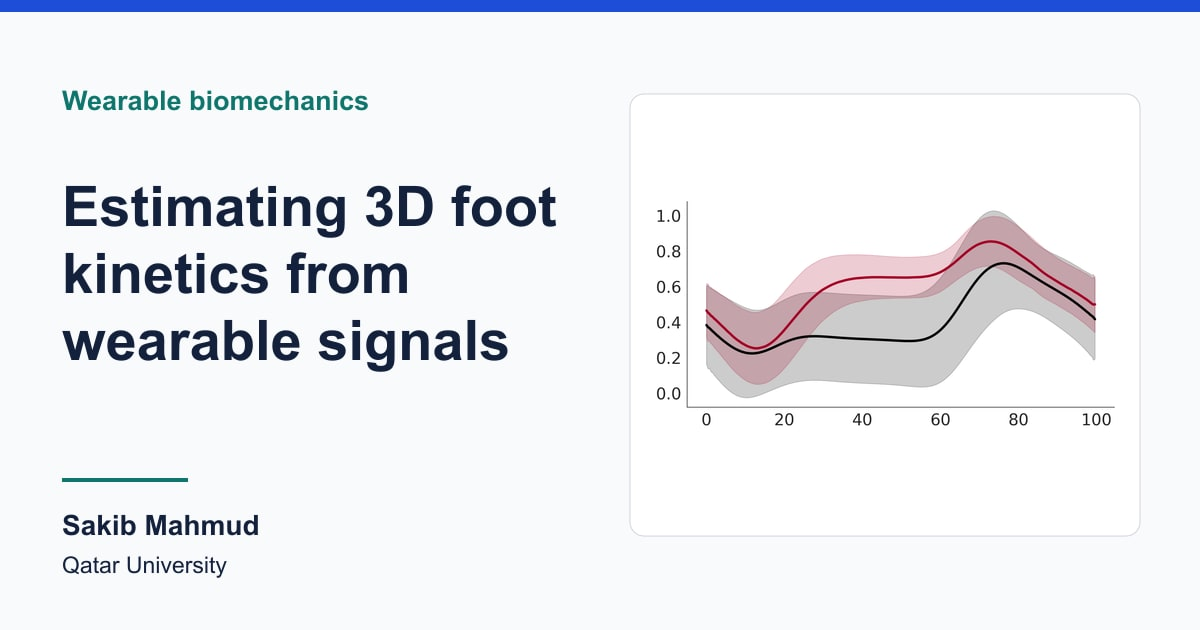
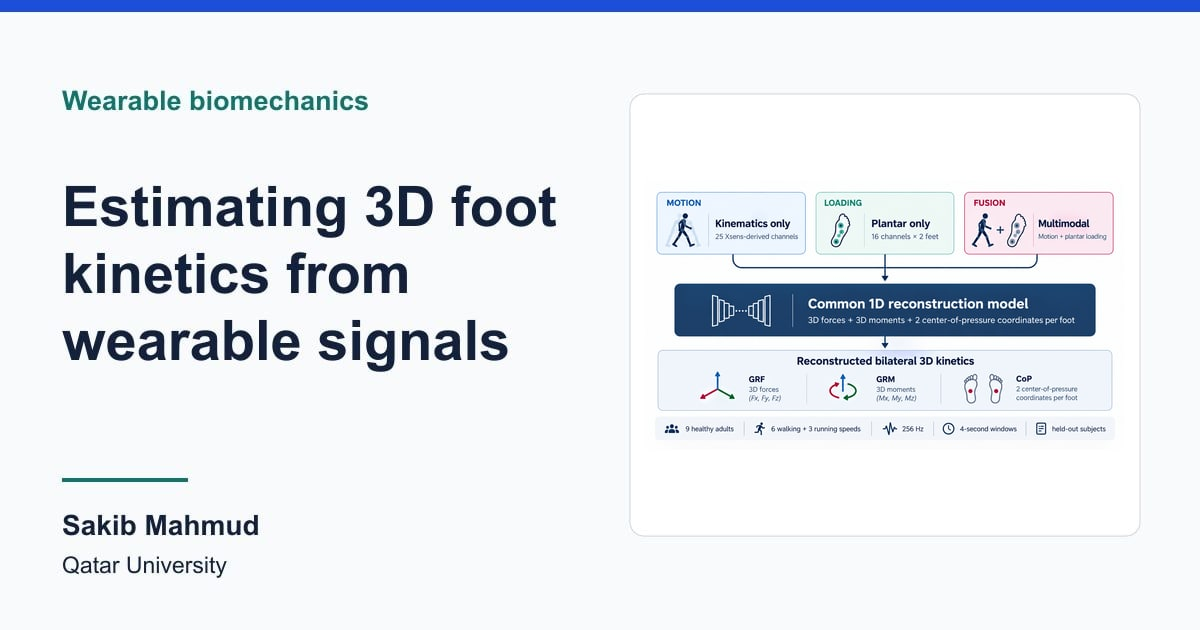
Rebuild the 3D foot kinetics page around the running project
Follow the project's progress in order: the published Ke2Ke insole
study, harmonisation of two public gait datasets, the kinematics-only
Km2Kn study, the matched pressure/motion/fusion benchmark, KineNeXt++
reliability-aware fusion, and cross-device transfer, with next steps
for the wearable system. Each stage has its status, results and
credited figures.

- Replace the display figure, homepage card and share card with the
  project overview graphic
- Use the published Ke2Ke figures with the IEEE notice and credit
  unpublished project figures to their source
- Add progress sections to research pages, allow credits without links
  for unpublished material, and serve sharper figures on dense screens
- Point the project overview and grant-phase pages to the new sections
- Remove the old plot and update the flagship test

Changed region(s): [[0.5242, 0.3016, 0.925, 0.6937]]

diff --git a/src/data/research.ts b/src/data/research.ts
@@ -1,5 +1,13 @@
 import type { ImageMetadata } from 'astro';
-import waveform from '../assets/insole-treadmill-waveform.png';
+import kineticsFramework from '../assets/research/wearable-foot-kinetics/project-framework.png';
+import kineticsExplainer from '../assets/research/wearable-foot-kinetics/kinematics-and-kinetics.png';
+import ke2keGaitCycle from '../assets/research/wearable-foot-kinetics/ke2ke-fig5-gait-cycle.png';
+import ke2keSensorLayout from '../assets/research/wearable-foot-kinetics/ke2ke-fig4-sensor-layout.png';
+import km2knReconstruction from '../assets/research/wearable-foot-kinetics/km2kn-reconstruction.png';
+import dasetComparison from '../assets/research/wearable-foot-kinetics/daset-unimodal-multimodal.png';
+import kinenextReconstruction from '../assets/research/wearable-foot-kinetics/kinenext-reconstruction.png';
+import anatomical8Regions from '../assets/research/wearable-foot-kinetics/anatomical8-regions.png';
+import transferResults from '../assets/research/wearable-foot-kinetics/transfer-twente-to-lee.png';
 import renal from '../assets/renal-ct.png';
 import sers from '../assets/sers-graphical-abstract.jpg';
 import ramanComparison from '../assets/raman-before-after.jpg';
@@ -14,7 +22,7 @@ import nabnetPipeline from '../assets/research/nabnet/fig1-pipeline.png';
 import nabnetAgreement from '../assets/research/nabnet/fig5-map-agreement.png';
 import ahnGrades from '../assets/research/prenatal-hydronephrosis/fig3-sfu-grades.jpg';
 import ahnSegmentation from '../assets/research/prenatal-hydronephrosis/fig6-segmentation.jpg';
-import { ccBy, elsevier, sourceArticle } from './figure-credits';
+import { ccBy, elsevier, ieee, sourceArticle } from './figure-credits';
 import { kinetics } from './kinetics';
 import { ramanSource } from './raman';
 import { thesisUrl } from './papers';
@@ -24,13 +32,29 @@ type ResearchLink = { label: string; href: string };
 /** Reuse terms shown beside a figure, such as CC BY 4.0 or a publisher copyright line. */
 export type FigureLicence = { label: string; href?: string };
 
-/** A figure from a paper or repository. The caption names the figure, its authors and any changes made. */
+/** Where a figure comes from. Unpublished project material has a label but no link. */
+export type FigureCredit = { label: string; href?: string };
+
+/** A figure from a paper, repository or project material. The caption names the figure, its authors and any changes made. */
 export type ResearchFigure = {
   image: ImageMetadata;
   alt: string;
   caption: string;
-  credit: ResearchLink;
+  credit: FigureCredit;
   licence?: FigureLicence;
+};
+
+/** One stage of a running project, shown as its own section in project order. */
+export type ResearchPhase = {
+  id: string;
+  /** Short label for the "On this page" list. */
+  navLabel: string;
+  title: string;
+  /** Publication or development status, such as "Published · …" or "Manuscript under revision". */
+  status: string;
+  paragraphs: string[];
+  measures?: { value: string; label: string }[];
+  figures?: ResearchFigure[];
 };
 
 export type ResearchProject = {
@@ -62,14 +86,15 @@ export type ResearchProject = {
     image: ImageMetadata;
     alt: string;
     caption: string;
-    credit?: ResearchLink;
+    credit?: FigureCredit;
     licence?: FigureLicence;
     /** A crop for the wide homepage card when the full figure is too detailed at that size. */
     card?: { image: ImageMetadata; alt: string };
-    chart?: { title: string; horizontalAxis: string; verticalAxis: string };
   };
   /** Further figures, placed in the Approach or Reported results section. */
   figures?: (ResearchFigure & { section: 'approach' | 'results' })[];
+  /** Stages of a running project, rendered after the approach in this order. */
+  progress?: ResearchPhase[];
 };
 
 export type Project = ResearchProject & { doi: string; code: string };
@@ -79,36 +104,175 @@ export const projects: Project[] = [
     slug: kinetics.slug,
     area: 'Wearable biomechanics',
     title: 'Estimating 3D foot kinetics from wearable signals',
-    summary: 'Estimating forces, moments, and centre of pressure from the vertical loads measured by smart insoles.',
-    question: 'How much of the force and moment profile measured by an instrumented treadmill can be recovered from insole signals?',
+    summary: 'Reconstructing 3D forces, moments, and centre of pressure from smart-insole loading and wearable motion sensors.',
+    question: 'How much of the 3D force, moment, and centre-of-pressure profile measured by an instrumented treadmill can smart insoles and wearable motion sensors recover?',
     doi: '10.1109/jbhi.2025.3605296',
     code: kinetics.repository,
-    approach: 'Ke2KeNet uses time series from 16 insole pressure sensors per foot. The study trained separate models for three force components, three moment components, and two centre-of-pressure coordinates, then compared the estimates with treadmill recordings across walking and running speeds.',
-    result: 'For the average gait cycles in Table I, the reported Pearson correlation exceeded 0.95 for all target signals except the right-foot vertical moment.',
-    measures: [
-      { value: '9', label: 'Healthy participants in cross-validation' },
-      { value: '5', label: 'Subject-independent folds' },
-      { value: '8', label: 'Estimated signals per foot' },
-    ],
-    contribution: 'I led preprocessing, model development, subject- and speed-wise evaluation, analysis, and manuscript preparation.',
+    status: 'Ongoing research',
+    context: 'Qatar University Collaborative Grant with Aspetar, building on the published Ke2Ke study',
+    period: '2023–present',
+    approach: 'Instrumented treadmills measure the full set of foot–ground kinetics but are fixed and expensive, while smart insoles are portable but mainly record vertical loading. The project trains one-dimensional sequence-reconstruction models that estimate, for each foot, three ground reaction forces, three moments, and the anterior–posterior and mediolateral centre of pressure, which gives 16 waveforms for both feet. The inputs are insole pressure, wearable motion, or both. Every model is evaluated against instrumented-treadmill references with the test participants held out of training. The sections below follow the project in order, from the published insole study to the current fusion and transfer experiments.',
+    contribution: 'I lead the project’s modelling work, from the published Ke2Ke study to the current fusion and transfer experiments. This covers preprocessing and harmonising the public datasets, developing Ke2KeNet, Km2KnNet and KineNeXt++, designing the participant-held-out evaluations, and preparing the manuscripts. The wider team is developing the sensing hardware and application.',
     evidence: {
       label: 'Wearable foot kinetics',
-      role: 'I led model development and evaluation against an instrumented treadmill.',
+      role: 'I lead the modelling work, from the published insole study to multimodal fusion and cross-device transfer.',
       finding: 'In nine healthy participants, average-cycle correlations exceeded 0.95 for all targets except the right-foot vertical moment.',
       shareImage: insoleShare,
     },
-    scope: 'The results come from nine healthy participants under controlled treadmill conditions. The plot illustrates one participant’s walking trials and shows where the estimated moment departs from the reference.',
-    ongoing: 'I’m investigating how to combine plantar sensing with inertial measurements from the foot and shank, and how well models transfer across datasets.',
-    workflow: ['Smart-insole pressure signals', 'Estimated forces and moments', 'Comparison with treadmill measurements'],
+    scope: 'Results so far come from public recordings of healthy adults on instrumented treadmills, with test participants held out. The studies report different metrics: Km2Kn and Ke2Ke correlate gait-cycle waveforms, while the conference study scores four-second windows. Numbers are therefore comparable within a study rather than across studies. The integrated wearable prototype has not yet been validated.',
+    ongoing: 'Controlled comparisons will test KineNeXt++ and a transformer-based variant, KineFusionFormer, against the U-Net baseline, including how well each copes when sensor streams or channels drop out. The team has drafted two wearable layouts that pair an instrumented insole with a foot and a shank IMU on each leg, and has fabricated a first pressure-sensing element. Its calibration, repeatability and readout electronics come next, followed by an application for synchronised recording, reconstruction and display. After the required ethics approvals, the integrated system will be validated against an instrumented treadmill in at least 30 healthy adults with Aspetar.',
+    workflow: ['Insole pressure and wearable motion', 'Reconstruct 16 kinetic waveforms', 'Compare with instrumented-treadmill references'],
     related: ['10.1007/s00521-023-09081-z', '10.3390/s22197599'],
     relatedProjects: ['multimodal-wearable-kinetics', 'kinematics-to-3d-kinetics'],
     visual: {
-      image: waveform,
-      alt: 'The estimated moment is above the treadmill mean for most of the right-foot walking cycle, with the largest separation around the middle of the cycle.',
-      caption: 'Participant 10, right foot, walking at 0.9–5.4 km/h. The black line is the treadmill mean and the red line is the Ke2KeNet estimate. Shading shows one standard deviation on either side of each mean. This example comes from the archived analysis for Figure 5b and shows a visible mid-cycle discrepancy.',
-      chart: { title: 'Mediolateral ground reaction moment', horizontalAxis: 'Gait cycle (%)', verticalAxis: 'Normalized amplitude (unitless)' },
-      credit: { label: 'Archived analysis notebook', href: 'https://github.com/Sakib1263/Unimodal-3D-Kinetics-Estimation-from-Insole-or-IMU/blob/2ffdb67e685e50068f79dfad37a7e26693e6a5ea/Combined_Insole_to_GRFM.ipynb' },
+      image: kineticsFramework,
+      alt: 'Overview diagram. Kinematics-only input from 25 Xsens-derived channels, plantar-only input from 16 insole channels per foot, and multimodal input combining both feed a common 1D reconstruction model. The model outputs bilateral 3D ground reaction forces, 3D moments and two centre-of-pressure coordinates per foot. A footer lists nine healthy adults, six walking and three running speeds, 256 Hz signals, four-second windows and held-out subjects.',
+      caption: 'Project overview from Mahmud and Bensaali’s talk at the 4th CENG Research Forum (October 2026). Wearable motion, insole loading or both are reconstructed into bilateral 3D forces, moments and centre-of-pressure trajectories.',
+      credit: { label: 'CENG Research Forum, October 2026' },
     },
+    figures: [
+      {
+        section: 'approach',
+        image: kineticsExplainer,
+        alt: 'Two-part explainer. Left, kinematics: a walking sequence with hip, knee and ankle angles over stance and swing, and an example knee flexion curve over the gait cycle. Right, plantar kinetics: a foot with vertical, anterior–posterior and medial–lateral force axes, the three moments, and a centre-of-pressure path from heel to forefoot, with an example vertical force curve over the gait cycle.',
+        caption: 'What the models estimate. Kinematics describe how the body moves. Plantar kinetics are the forces and moments at the foot–ground interface and the path of the centre of pressure. From the CENG Research Forum talk (October 2026).',
+        credit: { label: 'CENG Research Forum, October 2026' },
+      },
+    ],
+    progress: [
+      {
+        id: 'ke2ke',
+        navLabel: 'Insole loading to 3D kinetics',
+        title: 'Foundation: smart-insole loading to 3D kinetics',
+        status: 'Published · IEEE Journal of Biomedical and Health Informatics, 2026',
+        paragraphs: [
+          'Ke2KeNet maps the 16 vertical-loading channels of each Moticon insole to eight treadmill-referenced waveforms per foot. Separate one-dimensional models were trained for each output and evaluated with five subject-independent folds on nine healthy participants walking and running on an instrumented treadmill.',
+          'For the average gait cycles, Pearson correlation exceeded 0.95 for every output except the right-foot vertical moment, and the estimated vertical force was closer to the treadmill than the summed insole channels. A sensor-relevance analysis then reduced the layout from 16 to eight pressure locations per foot with broadly comparable accuracy, which now guides the prototype layout.',
+        ],
+        measures: [
+          { value: '> 0.95', label: 'Average-cycle correlation, all outputs but one' },
+          { value: '16 → 8', label: 'Pressure sensors per foot after layout analysis' },
+          { value: '9', label: 'Healthy participants, five subject-independent folds' },
+        ],
+        figures: [
+          {
+            image: ke2keGaitCycle,
+            alt: 'Two panels of gait-cycle curves, left foot above right. In (a), vertical force, the Ke2KeNet estimate follows the treadmill reference more closely than the summed insole signal through loading, midstance and unloading. In (b), mediolateral moment, the estimate captures the main peaks but departs from the reference during swing. Gait events such as heel strike, foot flat and toe off are labelled.',
+            caption: 'Figure 5 from Mahmud et al. (2026). Phase-aligned treadmill reference, summed insole loading and Ke2KeNet estimates for one participant walking at 0.9–5.4 km/h: (a) vertical force and (b) mediolateral moment. Shading shows one standard deviation.',
+            credit: sourceArticle('10.1109/jbhi.2025.3605296'),
+            licence: ieee(2025),
+          },
+          {
+            image: ke2keSensorLayout,
+            alt: 'Insole maps showing which of the 16 Moticon sensor regions are relevant to each kinetic output, a consolidated layout with eight retained sensors per foot highlighted in green, and two variance-inflation matrices before and after channel reduction.',
+            caption: 'Figure 4 from Mahmud et al. (2026). The 16-sensor Moticon layout, the sensing regions relevant to each kinetic output, the consolidated eight-sensor layout, and variance-inflation matrices before and after channel reduction.',
+            credit: sourceArticle('10.1109/jbhi.2025.3605296'),
+            licence: ieee(2025),
+          },
+        ],
+      },
+      {
+        id: 'datasets',
+        navLabel: 'Two public datasets',
+        title: 'Harmonising two public gait datasets',
+        status: 'Completed · 2026',
+        paragraphs: [
+          'The funded phase began by bringing two public gait datasets into one format. The University of Twente recordings are used for model development with participants held out. They cover nine adults with 16-cell Moticon insoles, eight Xsens IMUs and a Motek split-belt treadmill. The independent Lee and Lee dataset tests transfer to different equipment and protocols, with 12 adults, 99-cell Pedar insoles, 17 Xsens IMUs and an AMTI treadmill.',
+          'Both datasets were filtered, resampled to 256 Hz and cut into four-second windows. The source participant, trial and signal validity are recorded for every window.',
+        ],
+      },
+      {
+        id: 'km2kn',
+        navLabel: 'Kinematics only',
+        title: 'Kinematics only: which body motion carries the kinetics?',
+        status: 'Manuscript under revision',
+        paragraphs: [
+          'Km2Kn asked how much of the foot kinetics wearable motion capture can recover on its own, and which body region matters most. Of the pelvis, lumbar, hip, knee and ankle trajectories, the six bilateral ankle angles gave the best balance of accuracy and compactness. Using all 25 trajectories did not help consistently.',
+          'With those six channels, Km2KnNet reached a mean correlation of 98.21% across the eight outputs on held-out participants. That was the highest of the six architectures compared. Removing its full-scale feature fusion caused the largest drop in the ablation study.',
+        ],
+        measures: [
+          { value: '98.21%', label: 'Mean gait-cycle correlation across eight outputs' },
+          { value: '6 of 25', label: 'Motion channels needed: bilateral ankle angles' },
+        ],
+        figures: [
+          {
+            image: km2knReconstruction,
+            alt: 'Eight pairs of gait-cycle curves, one pair per kinetic output with the left foot above the right. The predicted means closely follow the treadmill means for the forces and centre of pressure, with larger gaps for some moments. Gait events are annotated.',
+            caption: 'From the Km2Kn manuscript (Mahmud et al., under revision). Gait-cycle reconstructions of the eight outputs from bilateral ankle angles. Black is the treadmill mean and red the Km2KnNet mean, with one standard deviation shaded. The vertical-force panel also shows the insole-derived force in green.',
+            credit: { label: 'Km2Kn manuscript, under revision' },
+          },
+        ],
+      },
+      {
+        id: 'multimodal-benchmark',
+        navLabel: 'Pressure, motion or both',
+        title: 'Does combining pressure and motion help?',
+        status: 'Conference paper under review',
+        paragraphs: [
+          'The first study of the funded phase compared kinematics-only, plantar-only and combined inputs with everything else fixed: the same presence-aware 1D U-Net, windows, outputs, training budget and held-out participants. The test set had 1,595 windows from nine participants.',
+          'Combined input gave the highest correlation and the lowest normalised error for every output type. Across all 16 outputs, normalised RMSE fell to 13.55% for walking and 13.00% for running, which is 7.1% and 2.6% lower than the better single modality. Plantar loading carried vertical force and centre of pressure, while kinematics carried several shear-force and moment components. The vertical moment remained the hardest output.',
+        ],
+        measures: [
+          { value: '13.55%', label: 'Walking NRMSE with combined input (7.1% lower)' },
+          { value: '13.00%', label: 'Running NRMSE with combined input (2.6% lower)' },
+          { value: '0.971', label: 'Vertical force correlation with combined input' },
+        ],
+        figures: [
+          {
+            image: dasetComparison,
+            alt: 'Paired bar charts of RMSE and Pearson correlation for eight kinetic outputs with kinematics-only, plantar-only and multimodal input. Multimodal bars have the highest correlation for every output and the lowest RMSE for seven of eight, the exception being the mediolateral moment.',
+            caption: 'Summary of the conference study from the CENG Research Forum talk (October 2026). RMSE (left) and Pearson correlation (right) for each output with kinematics-only, plantar-only and combined input. Bars show participant-balanced means and standard deviations.',
+            credit: { label: 'CENG Research Forum, October 2026' },
+          },
+        ],
+      },
+      {
+        id: 'kinenext',
+        navLabel: 'Reliability-aware fusion',
+        title: 'KineNeXt++: reliability-aware fusion',
+        status: 'In development · manuscript in preparation',
+        paragraphs: [
+          'KineNeXt++ gives kinematics and plantar loading separate temporal encoders and fuses them at several scales through a learned, presence-aware gate. The model can weigh each stream and keep working when one is missing. A nested decoder reconstructs all 16 bilateral outputs at once. For comparison, the pipeline also implements early fusion of the input channels and late averaging of single-modality predictions.',
+          'In internal experiments on the Twente data with participants held out, the fused model’s average walking gait cycles correlated with the measured averages at 0.992 to 1.000 for all 16 outputs. These correlations compare average curves rather than individual windows. Controlled comparisons against the U-Net baseline are under way.',
+        ],
+        figures: [
+          {
+            image: kinenextReconstruction,
+            alt: 'Sixteen panels of walking gait cycles: forces, moments and centre of pressure for each foot. The predicted mean curves, dashed orange, almost overlap the measured mean curves, solid blue, in every panel. Annotated mean-curve correlations range from 0.992 to 1.000.',
+            caption: 'Preliminary KineNeXt++ reconstructions from the project’s October 2026 progress report. Walking gait cycles for all 16 outputs, pooled from participant-held-out folds of nine participants. Shading shows between-participant standard deviation, and r is the correlation between the two mean curves.',
+            credit: { label: 'Unpublished project result, October 2026' },
+          },
+        ],
+      },
+      {
+        id: 'transfer',
+        navLabel: 'Transfer across devices',
+        title: 'Transferring to different insoles and sensors',
+        status: 'Preliminary results · November 2026',
+        paragraphs: [
+          'Comparing datasets recorded with different equipment needs a shared input. The project defined two portable inputs. IMU4 is six ankle angles estimated from one foot IMU and one shank IMU per leg. Anatomical8 is eight regional pressures per foot that map both the 16-cell Moticon and the 99-cell Pedar insoles onto the same anatomical regions.',
+          'Models trained on Twente were tested on ten held-out Lee and Lee participants. Forces transferred without retraining when regional pressures were included, with a correlation of 0.940 for Anatomical8. Moments did not transfer, staying below 0.2, because the two datasets define moments about different origins. Fine-tuning on one or two participants from the new dataset recovered most of the gap: correlation across all 12 compared outputs rose to 0.953–0.962 with regional pressure input and to 0.898 with IMU4 alone. Adapting only the output layers came within 0.011 of fine-tuning the whole model.',
+        ],
+        measures: [
+          { value: '0.940', label: 'Force correlation without retraining (Anatomical8)' },
+          { value: '0.962', label: 'Correlation after fine-tuning on two participants' },
+        ],
+        figures: [
+          {
+            image: anatomical8Regions,
+            alt: 'Two insole maps. The 16-cell Moticon insole and the 99-cell Pedar insole are coloured by the same eight regions: heel, lateral and medial midfoot, fifth, second-to-fourth and first metatarsal regions, lesser toes, and hallux.',
+            caption: 'Anatomical8 mapping of the 16 Moticon cells (A) and 99 Pedar cells (B) onto eight shared regions, from the project’s October 2026 progress report. Colours mark regions, not pressure.',
+            credit: { label: 'Unpublished project result, October 2026' },
+          },
+          {
+            image: transferResults,
+            alt: 'Three line charts of correlation on held-out Lee and Lee participants for IMU4, Anatomical8 and combined inputs, without retraining and after fine-tuning on one or two participants. For all 12 outputs and for moments, correlation rises steeply after fine-tuning. Forces stay high throughout for inputs that include regional pressure.',
+            caption: 'Correlation on ten held-out Lee and Lee participants for models trained on Twente, without retraining (zero-shot) and after fine-tuning on one or two participants. The panels show all 12 compared outputs, forces and moments. From the project presentation of 11 November 2026.',
+            credit: { label: 'Unpublished project result, November 2026' },
+          },
+        ],
+      },
+    ],
   },
   {
     slug: 'kidney-stone-segmentation',

diff --git a/src/data/research-catalog.ts b/src/data/research-catalog.ts
@@ -47,7 +47,7 @@ const biomechanics: ResearchProject[] = [
     title: 'Multimodal wearable estimation of 3D gait kinetics',
     summary: 'Combining wearable motion and plantar pressure to estimate forces, moments, and centre of pressure across people and sensor layouts.',
     period: 'March 2026–present', status: 'Ongoing research', context: 'Qatar University Collaborative Grant',
-    approach: 'Synchronise insole pressures with inertial measurements from the foot and shank. Map the inputs into comparable representations, then compare insole-only, motion-only and combined models against force-platform or instrumented-treadmill references. The evaluation examines held-out participants and the effect of changes in recording hardware and protocol.',
+    approach: 'Synchronise insole pressures with inertial measurements from the foot and shank. Map the inputs into comparable representations, then compare insole-only, motion-only and combined models against force-platform or instrumented-treadmill references. The evaluation examines held-out participants and the effect of changes in recording hardware and protocol. The main project page sets out each stage in order, with figures and results: the kinematics-only and multimodal benchmarks, KineNeXt++ fusion, and transfer between datasets.',
     contribution: 'I develop the preprocessing and alignment workflows, study how to combine the two modalities, and design model comparisons across participants and datasets.',
     scope: 'This work is in development. Participant-held-out evaluation and transfer between independently collected datasets address different questions about generalisation.',
     relatedProjects: ['wearable-foot-kinetics', 'kinematics-to-3d-kinetics'],

diff --git a/tests/site.spec.ts b/tests/site.spec.ts
@@ -20,8 +20,10 @@ for (const path of ['/', '/research/', '/research/summary/', gaitProject, flagsh
 test('mobile navigation stays visible and the flagship fits at 320 pixels', async ({ page, request }) => {
   await page.setViewportSize({ width: 320, height: 780 });
   await page.goto(flagship);
-  await page.getByRole('heading', { name: 'Mediolateral ground reaction moment' }).scrollIntoViewIfNeeded();
-  await expect(page.getByText('Normalized amplitude (unitless)')).toBeVisible();
+  await expect(page.getByRole('img', { name: /^Overview diagram/ })).toBeVisible();
+  await expect(page.getByRole('navigation', { name: 'Project sections' }).getByRole('link')).toContainText([
+    'Insole loading to 3D kinetics', 'Two public datasets', 'Kinematics only', 'Pressure, motion or both', 'Reliability-aware fusion', 'Transfer across devices',
+  ]);
   await page.getByRole('heading', { name: 'Work with the study data' }).scrollIntoViewIfNeeded();
   expect(await page.locator('.site-header').evaluate(header => header.getBoundingClientRect().top)).toBe(0);
   const viewport = await page.evaluate(() => ({ width: document.documentElement.clientWidth, content: document.documentElement.scrollWidth }));

diff --git a/src/data/research-projects.ts b/src/data/research-projects.ts
@@ -46,7 +46,7 @@ const gait: Collection = {
     {
       title: 'Combining plantar loading with inertial motion',
       period: 'March 2026–present',
-      description: 'The funded phase first compared loading-only, motion-only, and fused inputs using a common 1D U-Net and held-out participants. Subsequent work investigates compact motion inputs, reliability-aware fusion, and transfer across datasets and wearable configurations. The target is eight outputs per foot.',
+      description: 'The funded phase harmonised two public gait datasets, then compared loading-only, motion-only and fused inputs using a common 1D U-Net and held-out participants. Fusion lowered normalised error by 7.1% for walking and 2.6% for running. Current work develops reliability-aware fusion (KineNeXt++) and tests transfer to different insoles and sensors through compact portable inputs. The target is eight outputs per foot.',
       study: 'multimodal-wearable-kinetics',
     },
   ],

diff --git a/src/styles/site.css b/src/styles/site.css
@@ -113,9 +113,6 @@ h3 { font-size: 1.1rem; line-height: 1.35; font-weight: 680; }
 .detail-figure figcaption { padding: .72rem .94rem; background: var(--surface); border-top: 1px solid var(--border); color: var(--text-muted); font-size: .86rem; line-height: 1.45; }
 .detail-figure > .waveform-plot { padding: 1rem; background: var(--surface); gap: .35rem; }
 .waveform-plot img { width: 100%; }
-.chart-heading { width: 100%; }
-.chart-heading h3 { font: 700 1rem/1.35 var(--sans); letter-spacing: 0; }
-.waveform-plot p { color: var(--text-muted); font-size: .8rem; }
 .reproduction { margin-top: 2.5rem; border-top: 1px solid var(--border); padding-top: 1.5rem; }
 .reproduction p { max-width: 74ch; margin-block: .4rem .7rem; color: var(--text-muted); line-height: 1.6; }
 .run-steps { margin-block: 1.15rem 1.35rem; padding-left: 1.6rem; }

diff --git a/src/data/figure-credits.ts b/src/data/figure-credits.ts
@@ -14,6 +14,12 @@ export const elsevier = (year: number, entity: 'Ltd' | 'B.V.' = 'Ltd'): FigureLi
   href: 'https://www.elsevier.com/about/policies-and-standards/copyright',
 });
 
+/** IEEE lets authors post their own article on a personal website with the IEEE copyright notice. */
+export const ieee = (year: number): FigureLicence => ({
+  label: `© ${year} IEEE · author reuse`,
+  href: 'https://journals.ieeeauthorcenter.ieee.org/become-an-ieee-journal-author/publishing-ethics/guidelines-and-policies/post-publication-policies/',
+});
+
 /** Springer Nature lets authors reuse their own material when the journal is credited with first publication. */
 export const springer = (year: number): FigureLicence => ({
   label: `© ${year} Springer Nature · author reuse`,

diff --git a/src/styles/research.css b/src/styles/research.css
@@ -59,8 +59,9 @@
 .research-detail .study-workflow li { font-size: .87rem; }
 .research-detail .detail-figure, .research-detail .ahn-example { margin-top: 1rem; }
 .research-detail .display-figure { margin: 0 0 var(--catalog-section-gap); }
+.catalog-section-heading .research-phase-status { color: var(--accent-strong); font-weight: 640; }
 .research-detail .display-figure img { max-height: 440px; }
-.research-detail .detail-figure img { width: 100%; }
+.research-detail .detail-figure img { width: 100%; max-height: 560px; }
 .figure-links { display: flex; flex-wrap: wrap; gap: .25rem 1rem; margin-top: .38rem; }
 .result-panels { display: none; }
 .research-detail .study-measures { margin-bottom: 0; }
